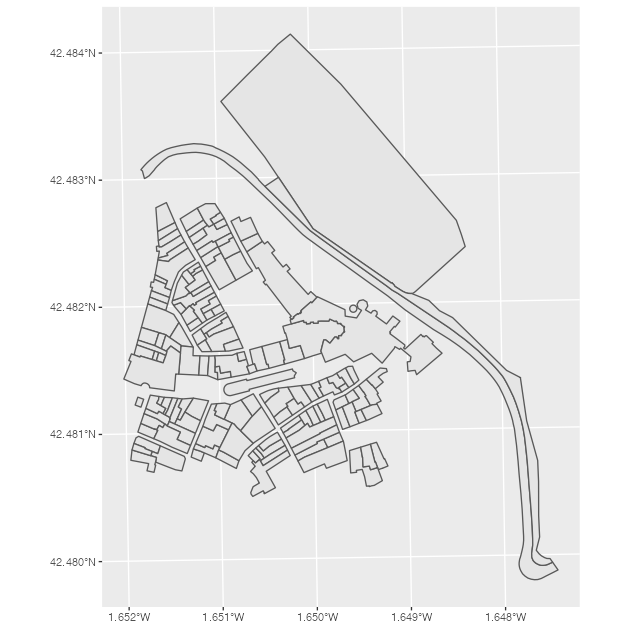
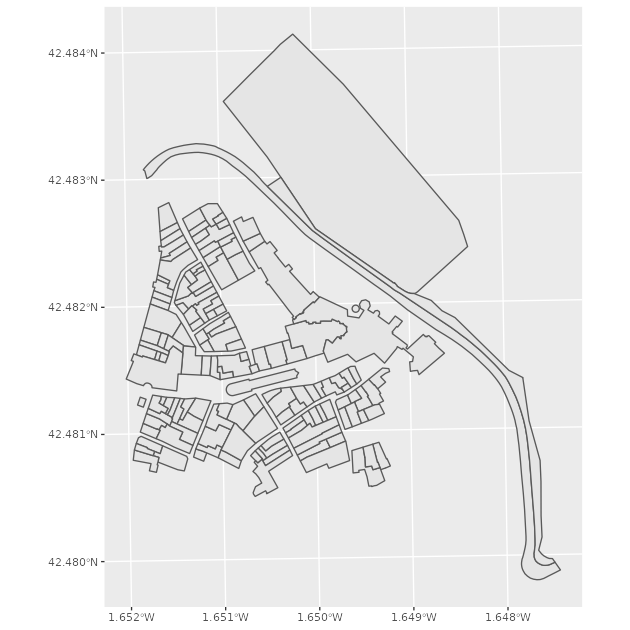
Built site for CatastRoNav: 0.0.1.9000@8615eb5

diff --git a/articles/CatastRoNav.html b/articles/CatastRoNav.html
@@ -42,7 +42,7 @@
     <div>
       <img src="../logo.png" alt="CatastRoNav-logo" id="ROS-navbar-logo"><a class="navbar-brand me-2" href="../index.html">CatastRoNav</a>
 
-      <small class="nav-text text-muted me-auto" data-bs-toggle="tooltip" data-bs-placement="bottom" title="">0.0.1</small>
+      <small class="nav-text text-muted me-auto" data-bs-toggle="tooltip" data-bs-placement="bottom" title="">0.0.1.9000</small>
     </div>
     
     <button class="navbar-toggler" type="button" data-bs-toggle="collapse" data-bs-target="#navbar" aria-controls="navbar" aria-expanded="false" aria-label="Toggle navigation">
@@ -143,11 +143,11 @@
 <span><span class="co"># Use mapSpain for getting the coords</span></span>
 <span><span class="va">pamp</span> <span class="op">&lt;-</span> <span class="fu"><a href="https://ropenspain.github.io/mapSpain/reference/esp_get_capimun.html" class="external-link">esp_get_capimun</a></span><span class="op">(</span>munic <span class="op">=</span> <span class="st">"^Pamplona"</span><span class="op">)</span></span>
 <span></span>
-<span><span class="co"># Transform to ETRS89 / UTM 30 N and add a buffer of 1000m</span></span>
+<span><span class="co"># Transform to ETRS89 / UTM 30 N and add a buffer of 750m</span></span>
 <span></span>
 <span><span class="va">pamp_buff</span> <span class="op">&lt;-</span> <span class="va">pamp</span> <span class="op"><a href="https://magrittr.tidyverse.org/reference/pipe.html" class="external-link">%&gt;%</a></span></span>
 <span>  <span class="fu"><a href="https://r-spatial.github.io/sf/reference/st_transform.html" class="external-link">st_transform</a></span><span class="op">(</span><span class="fl">25830</span><span class="op">)</span> <span class="op"><a href="https://magrittr.tidyverse.org/reference/pipe.html" class="external-link">%&gt;%</a></span></span>
-<span>  <span class="fu"><a href="https://r-spatial.github.io/sf/reference/geos_unary.html" class="external-link">st_buffer</a></span><span class="op">(</span><span class="fl">1000</span><span class="op">)</span></span></code></pre></div>
+<span>  <span class="fu"><a href="https://r-spatial.github.io/sf/reference/geos_unary.html" class="external-link">st_buffer</a></span><span class="op">(</span><span class="fl">750</span><span class="op">)</span></span></code></pre></div>
 <p>Next step consists on extracting the buildings using the WFS service:</p>
 <div class="sourceCode" id="cb3"><pre class="downlit sourceCode r">
 <code class="sourceCode R"><span></span>
@@ -158,30 +158,25 @@
 <span><span class="co"># Cut buildings</span></span>
 <span></span>
 <span><span class="va">dataviz</span> <span class="op">&lt;-</span> <span class="fu"><a href="https://r-spatial.github.io/sf/reference/geos_binary_ops.html" class="external-link">st_intersection</a></span><span class="op">(</span><span class="va">pamp_bu</span>, <span class="va">pamp_buff</span><span class="op">)</span></span>
-<span><span class="co">#&gt; Error in UseMethod("st_intersection"): no applicable method for 'st_intersection' applied to an object of class "NULL"</span></span>
 <span></span>
 <span><span class="fu"><a href="https://ggplot2.tidyverse.org/reference/ggplot.html" class="external-link">ggplot</a></span><span class="op">(</span><span class="va">dataviz</span><span class="op">)</span> <span class="op">+</span></span>
-<span>  <span class="fu"><a href="https://ggplot2.tidyverse.org/reference/ggsf.html" class="external-link">geom_sf</a></span><span class="op">(</span><span class="op">)</span></span>
-<span><span class="co">#&gt; Error in ggplot(dataviz): object 'dataviz' not found</span></span></code></pre></div>
+<span>  <span class="fu"><a href="https://ggplot2.tidyverse.org/reference/ggsf.html" class="external-link">geom_sf</a></span><span class="op">(</span><span class="op">)</span></span></code></pre></div>
+<p><img src="minimal-1.png" alt="plot of chunk minimal" width="100%"></p>
 <p>Let’s extract now the construction year, available in the column <code>beginning</code>:</p>
 <div class="sourceCode" id="cb5"><pre class="downlit sourceCode r">
 <code class="sourceCode R"><span></span>
 <span><span class="co"># Extract 4 initial positions</span></span>
 <span><span class="va">year</span> <span class="op">&lt;-</span> <span class="fu"><a href="https://rdrr.io/r/base/substr.html" class="external-link">substr</a></span><span class="op">(</span><span class="va">dataviz</span><span class="op">$</span><span class="va">beginning</span>, <span class="fl">1</span>, <span class="fl">4</span><span class="op">)</span></span>
-<span><span class="co">#&gt; Error in substr(dataviz$beginning, 1, 4): object 'dataviz' not found</span></span>
 <span></span>
 <span><span class="co"># Replace all that doesn't look as a number with 0000</span></span>
 <span><span class="va">year</span><span class="op">[</span><span class="op">!</span><span class="op">(</span><span class="va">year</span> <span class="op"><a href="https://rdrr.io/r/base/match.html" class="external-link">%in%</a></span> <span class="fl">0</span><span class="op">:</span><span class="fl">2500</span><span class="op">)</span><span class="op">]</span> <span class="op">&lt;-</span> <span class="st">"0000"</span></span>
-<span><span class="co">#&gt; Error in year[!(year %in% 0:2500)] &lt;- "0000": object 'year' not found</span></span>
 <span></span>
 <span><span class="co"># To numeric</span></span>
 <span><span class="va">year</span> <span class="op">&lt;-</span> <span class="fu"><a href="https://rdrr.io/r/base/integer.html" class="external-link">as.integer</a></span><span class="op">(</span><span class="va">year</span><span class="op">)</span></span>
-<span><span class="co">#&gt; Error in eval(expr, envir, enclos): object 'year' not found</span></span>
 <span></span>
 <span><span class="co"># New column</span></span>
 <span><span class="va">dataviz</span> <span class="op">&lt;-</span> <span class="va">dataviz</span> <span class="op"><a href="https://magrittr.tidyverse.org/reference/pipe.html" class="external-link">%&gt;%</a></span></span>
-<span>  <span class="fu"><a href="https://dplyr.tidyverse.org/reference/mutate.html" class="external-link">mutate</a></span><span class="op">(</span>year <span class="op">=</span> <span class="va">year</span><span class="op">)</span></span>
-<span><span class="co">#&gt; Error in mutate(., year = year): object 'dataviz' not found</span></span></code></pre></div>
+<span>  <span class="fu"><a href="https://dplyr.tidyverse.org/reference/mutate.html" class="external-link">mutate</a></span><span class="op">(</span>year <span class="op">=</span> <span class="va">year</span><span class="op">)</span></span></code></pre></div>
 <p>Last step is to create groups based on the year and create the data visualization. We use here the function <code><a href="https://ggplot2.tidyverse.org/reference/cut_interval.html" class="external-link">ggplot2::cut_width()</a></code> to create different classes:</p>
 <div class="sourceCode" id="cb6"><pre class="downlit sourceCode r">
 <code class="sourceCode R"><span></span>
@@ -189,7 +184,6 @@
 <span>  <span class="fu"><a href="https://dplyr.tidyverse.org/reference/mutate.html" class="external-link">mutate</a></span><span class="op">(</span>year_cat <span class="op">=</span> <span class="fu">ggplot2</span><span class="fu">::</span><span class="fu"><a href="https://ggplot2.tidyverse.org/reference/cut_interval.html" class="external-link">cut_width</a></span><span class="op">(</span><span class="va">year</span>,</span>
 <span>    width <span class="op">=</span> <span class="fl">10</span></span>
 <span>  <span class="op">)</span><span class="op">)</span></span>
-<span><span class="co">#&gt; Error in mutate(., year_cat = ggplot2::cut_width(year, width = 10)): object 'dataviz' not found</span></span>
 <span></span>
 <span></span>
 <span><span class="co"># Adjust the color palette</span></span>
@@ -198,7 +192,6 @@
 <span>  <span class="fu"><a href="https://rdrr.io/r/base/length.html" class="external-link">length</a></span><span class="op">(</span><span class="fu"><a href="https://rdrr.io/r/base/levels.html" class="external-link">levels</a></span><span class="op">(</span><span class="va">dataviz</span><span class="op">$</span><span class="va">year_cat</span><span class="op">)</span><span class="op">)</span>,</span>
 <span>  <span class="st">"Spectral"</span></span>
 <span><span class="op">)</span></span>
-<span><span class="co">#&gt; Error in levels(dataviz$year_cat): object 'dataviz' not found</span></span>
 <span></span>
 <span><span class="fu"><a href="https://ggplot2.tidyverse.org/reference/ggplot.html" class="external-link">ggplot</a></span><span class="op">(</span><span class="va">dataviz</span><span class="op">)</span> <span class="op">+</span></span>
 <span>  <span class="fu"><a href="https://ggplot2.tidyverse.org/reference/ggsf.html" class="external-link">geom_sf</a></span><span class="op">(</span><span class="fu"><a href="https://ggplot2.tidyverse.org/reference/aes.html" class="external-link">aes</a></span><span class="op">(</span>fill <span class="op">=</span> <span class="va">year_cat</span><span class="op">)</span>, color <span class="op">=</span> <span class="cn">NA</span><span class="op">)</span> <span class="op">+</span></span>
@@ -223,8 +216,8 @@
 <span>      margin <span class="op">=</span> <span class="fu"><a href="https://ggplot2.tidyverse.org/reference/element.html" class="external-link">margin</a></span><span class="op">(</span>b <span class="op">=</span> <span class="fl">20</span><span class="op">)</span>, hjust <span class="op">=</span> <span class="fl">.5</span></span>
 <span>    <span class="op">)</span>,</span>
 <span>    plot.margin <span class="op">=</span> <span class="fu"><a href="https://ggplot2.tidyverse.org/reference/element.html" class="external-link">margin</a></span><span class="op">(</span>r <span class="op">=</span> <span class="fl">40</span>, l <span class="op">=</span> <span class="fl">40</span><span class="op">)</span></span>
-<span>  <span class="op">)</span></span>
-<span><span class="co">#&gt; Error in ggplot(dataviz): object 'dataviz' not found</span></span></code></pre></div>
+<span>  <span class="op">)</span></span></code></pre></div>
+<p><img src="dataviz-1.png" alt="plot of chunk dataviz" width="100%"></p>
 </div>
 </div>
 <div class="section level2 unnumbered">

diff --git a/index.html b/index.html
@@ -46,7 +46,7 @@
     <div>
       <img src="logo.png" alt="CatastRoNav-logo" id="ROS-navbar-logo"><a class="navbar-brand me-2" href="index.html">CatastRoNav</a>
 
-      <small class="nav-text text-muted me-auto" data-bs-toggle="tooltip" data-bs-placement="bottom" title="">0.0.1</small>
+      <small class="nav-text text-muted me-auto" data-bs-toggle="tooltip" data-bs-placement="bottom" title="">0.0.1.9000</small>
     </div>
     
     <button class="navbar-toggler" type="button" data-bs-toggle="collapse" data-bs-target="#navbar" aria-controls="navbar" aria-expanded="false" aria-label="Toggle navigation">
@@ -104,14 +104,15 @@
 <p>Alternatively, you can install the developing version of <strong>CatastRoNav</strong> with:</p>
 <div class="sourceCode" id="cb2"><pre class="downlit sourceCode r">
 <code class="sourceCode R"><span><span class="kw"><a href="https://rdrr.io/r/base/library.html" class="external-link">library</a></span><span class="op">(</span><span class="va"><a href="https://remotes.r-lib.org" class="external-link">remotes</a></span><span class="op">)</span></span>
-<span><span class="fu">install_github</span><span class="op">(</span><span class="st">"rOpenSpain/CatastRoNav"</span>, dependencies <span class="op">=</span> <span class="cn">TRUE</span><span class="op">)</span></span></code></pre></div>
+<span><span class="fu"><a href="https://remotes.r-lib.org/reference/install_github.html" class="external-link">install_github</a></span><span class="op">(</span><span class="st">"rOpenSpain/CatastRoNav"</span>, dependencies <span class="op">=</span> <span class="cn">TRUE</span><span class="op">)</span></span></code></pre></div>
 </div>
 <div class="section level2">
 <h2 id="usage">Usage<a class="anchor" aria-label="anchor" href="#usage"></a>
 </h2>
 <p>The WFS service allows to download vector objects of specific cadastral elements. The result is provided as <code>sf</code> objects (See <strong>sf</strong> package).</p>
 <div class="sourceCode" id="cb3"><pre class="downlit sourceCode r">
-<code class="sourceCode R"><span><span class="kw"><a href="https://rdrr.io/r/base/library.html" class="external-link">library</a></span><span class="op">(</span><span class="va"><a href="https://ropenspain.github.io/CatastRoNav/">CatastRoNav</a></span><span class="op">)</span></span>
+<code class="sourceCode R"><span></span>
+<span><span class="kw"><a href="https://rdrr.io/r/base/library.html" class="external-link">library</a></span><span class="op">(</span><span class="va"><a href="https://ropenspain.github.io/CatastRoNav/">CatastRoNav</a></span><span class="op">)</span></span>
 <span><span class="kw"><a href="https://rdrr.io/r/base/library.html" class="external-link">library</a></span><span class="op">(</span><span class="va"><a href="https://ggplot2.tidyverse.org" class="external-link">ggplot2</a></span><span class="op">)</span></span>
 <span></span>
 <span><span class="va">wfs_get_buildings</span> <span class="op">&lt;-</span> <span class="fu"><a href="reference/catrnav_wfs_get_buildings_bbox.html">catrnav_wfs_get_buildings_bbox</a></span><span class="op">(</span></span>
@@ -128,16 +129,16 @@
 <h2 id="citation">Citation<a class="anchor" aria-label="anchor" href="#citation"></a>
 </h2>
 <p>To cite ‘CatastRoNav’ in publications use:</p>
-<p>Hernangómez D (2022). <em>CatastRoNav: Interface to the API Catastro de Navarra</em>. <a href="doi:10.5281/zenodo.6366407" class="uri">doi:10.5281/zenodo.6366407</a> <a href="https://doi.org/10.5281/zenodo.6366407" class="external-link uri">https://doi.org/10.5281/zenodo.6366407</a>, <a href="https://ropenspain.github.io/CatastRoNav/" class="uri">https://ropenspain.github.io/CatastRoNav/</a>.</p>
+<p>Hernangomez D (2022). CatastRoNav: Interface to the INSPIRE services of Catastro de Navarra. <a href="https://doi.org/10.5281/zenodo.6366407" class="external-link uri">https://doi.org/10.5281/zenodo.6366407</a>, <a href="https://ropenspain.github.io/CatastRoNav/" class="uri">https://ropenspain.github.io/CatastRoNav/</a></p>
 <p>A BibTeX entry for LaTeX users is:</p>
 <div class="sourceCode" id="cb4"><pre class="sourceCode R"><code class="sourceCode r"><span id="cb4-1"><a href="#cb4-1" aria-hidden="true" tabindex="-1"></a><span class="sc">@</span>Manual{R<span class="sc">-</span>catastronav,</span>
 <span id="cb4-2"><a href="#cb4-2" aria-hidden="true" tabindex="-1"></a>  title <span class="ot">=</span> {{CatastRoNav}<span class="sc">:</span> Interface to the {API} Catastro de Navarra},</span>
 <span id="cb4-3"><a href="#cb4-3" aria-hidden="true" tabindex="-1"></a>  author <span class="ot">=</span> {Diego Hernangómez},</span>
 <span id="cb4-4"><a href="#cb4-4" aria-hidden="true" tabindex="-1"></a>  year <span class="ot">=</span> {<span class="dv">2022</span>},</span>
-<span id="cb4-5"><a href="#cb4-5" aria-hidden="true" tabindex="-1"></a>  version <span class="ot">=</span> {<span class="dv">0</span>.<span class="fl">0.1</span>},</span>
-<span id="cb4-6"><a href="#cb4-6" aria-hidden="true" tabindex="-1"></a>  url <span class="ot">=</span> {https<span class="sc">:</span><span class="er">//</span>ropenspain.github.io<span class="sc">/</span>CatastRoNav<span class="sc">/</span>},</span>
-<span id="cb4-7"><a href="#cb4-7" aria-hidden="true" tabindex="-1"></a>  doi <span class="ot">=</span> {<span class="fl">10.5281</span><span class="sc">/</span>zenodo<span class="fl">.6366407</span>},</span>
-<span id="cb4-8"><a href="#cb4-8" aria-hidden="true" tabindex="-1"></a>  abstract <span class="ot">=</span> {Access public spatial data available under the <span class="st">'INSPIRE'</span> directive. Tools <span class="cf">for</span> downloading references, buildings and addresses of properties on <span class="fu">Navarre</span> (Spain).},</span>
+<span id="cb4-5"><a href="#cb4-5" aria-hidden="true" tabindex="-1"></a>  version <span class="ot">=</span> {<span class="dv">0</span>.<span class="dv">0</span>.<span class="fl">1.9000</span>},</span>
+<span id="cb4-6"><a href="#cb4-6" aria-hidden="true" tabindex="-1"></a>  doi <span class="ot">=</span> {<span class="fl">10.5281</span><span class="sc">/</span>zenodo<span class="fl">.6366407</span>},</span>
+<span id="cb4-7"><a href="#cb4-7" aria-hidden="true" tabindex="-1"></a>  url <span class="ot">=</span> {https<span class="sc">:</span><span class="er">//</span>ropenspain.github.io<span class="sc">/</span>CatastRoNav<span class="sc">/</span>},</span>
+<span id="cb4-8"><a href="#cb4-8" aria-hidden="true" tabindex="-1"></a>  abstract <span class="ot">=</span> {Access public spatial data available under the INSPIRE directive. Tools <span class="cf">for</span> downloading references, buildings and addresses of properties on <span class="fu">Navarre</span> (Spain).},</span>
 <span id="cb4-9"><a href="#cb4-9" aria-hidden="true" tabindex="-1"></a>}</span></code></pre></div>
 </div>
 <div class="section level2">

diff --git a/authors.html b/authors.html
@@ -11,7 +11,7 @@
     <div>
       <img src="logo.png" alt="CatastRoNav-logo" id="ROS-navbar-logo"><a class="navbar-brand me-2" href="index.html">CatastRoNav</a>
 
-      <small class="nav-text text-muted me-auto" data-bs-toggle="tooltip" data-bs-placement="bottom" title="">0.0.1</small>
+      <small class="nav-text text-muted me-auto" data-bs-toggle="tooltip" data-bs-placement="bottom" title="">0.0.1.9000</small>
     </div>
     
     <button class="navbar-toggler" type="button" data-bs-toggle="collapse" data-bs-target="#navbar" aria-controls="navbar" aria-expanded="false" aria-label="Toggle navigation">
@@ -60,18 +60,15 @@
       <h2 id="citation">Citation</h2>
       <p><small class="dont-index">Source: <a href="https://github.com/rOpenSpain/CatastRoNav/blob/HEAD/inst/CITATION" class="external-link"><code>inst/CITATION</code></a></small></p>
 
-      <p>Hernangómez D (2022).
-<em>CatastRoNav: Interface to the API Catastro de Navarra</em>.
-<a href="https://doi.org/10.5281/zenodo.6366407" class="external-link">doi:10.5281/zenodo.6366407</a>, <a href="https://ropenspain.github.io/CatastRoNav/">https://ropenspain.github.io/CatastRoNav/</a>. 
-</p>
+      <p>Hernangomez D (2022). CatastRoNav: Interface to the INSPIRE services of Catastro de Navarra. &lt;https://doi.org/10.5281/zenodo.6366407&gt;, &lt;https://ropenspain.github.io/CatastRoNav/&gt;</p>
       <pre>@Manual{R-catastronav,
   title = {{CatastRoNav}: Interface to the {API} Catastro de Navarra},
   author = {Diego Hernangómez},
   year = {2022},
-  version = {0.0.1},
-  url = {https://ropenspain.github.io/CatastRoNav/},
+  version = {0.0.1.9000},
   doi = {10.5281/zenodo.6366407},
-  abstract = {Access public spatial data available under the 'INSPIRE' directive. Tools for downloading references, buildings and addresses of properties on Navarre (Spain).},
+  url = {https://ropenspain.github.io/CatastRoNav/},
+  abstract = {Access public spatial data available under the INSPIRE directive. Tools for downloading references, buildings and addresses of properties on Navarre (Spain).},
 }</pre>
     </div>
   </main><aside class="col-md-3"><nav id="toc"><h2>On this page</h2>

diff --git a/news/index.html b/news/index.html
@@ -11,7 +11,7 @@
     <div>
       <img src="../logo.png" alt="CatastRoNav-logo" id="ROS-navbar-logo"><a class="navbar-brand me-2" href="../index.html">CatastRoNav</a>
 
-      <small class="nav-text text-muted me-auto" data-bs-toggle="tooltip" data-bs-placement="bottom" title="">0.0.1</small>
+      <small class="nav-text text-muted me-auto" data-bs-toggle="tooltip" data-bs-placement="bottom" title="">0.0.1.9000</small>
     </div>
     
     <button class="navbar-toggler" type="button" data-bs-toggle="collapse" data-bs-target="#navbar" aria-controls="navbar" aria-expanded="false" aria-label="Toggle navigation">
@@ -48,6 +48,9 @@
       <small>Source: <a href="https://github.com/rOpenSpain/CatastRoNav/blob/HEAD/NEWS.md" class="external-link"><code>NEWS.md</code></a></small>
     </div>
 
+    <div class="section level2">
+<h2 class="pkg-version" data-toc-text="development version" id="catastronav-development-version">CatastRoNav (development version)<a class="anchor" aria-label="anchor" href="#catastronav-development-version"></a></h2>
+<ul><li>Make <code>sf</code> objects valid with <code><a href="https://r-spatial.github.io/sf/reference/valid.html" class="external-link">sf::st_make_valid()</a></code>.</li></ul></div>
     <div class="section level2">
 <h2 class="pkg-version" data-toc-text="0.0.1" id="catastronav-001">CatastRoNav 0.0.1<a class="anchor" aria-label="anchor" href="#catastronav-001"></a></h2>
 <ul><li>Initial release.</li></ul></div>

diff --git a/reference/CatastRoNav-package.html b/reference/CatastRoNav-package.html
@@ -13,7 +13,7 @@ Access public spatial data available under the 'INSPIRE' directive. Tools for do
     <div>
       <img src="../logo.png" alt="CatastRoNav-logo" id="ROS-navbar-logo"><a class="navbar-brand me-2" href="../index.html">CatastRoNav</a>
 
-      <small class="nav-text text-muted me-auto" data-bs-toggle="tooltip" data-bs-placement="bottom" title="">0.0.1</small>
+      <small class="nav-text text-muted me-auto" data-bs-toggle="tooltip" data-bs-placement="bottom" title="">0.0.1.9000</small>
     </div>
     
     <button class="navbar-toggler" type="button" data-bs-toggle="collapse" data-bs-target="#navbar" aria-controls="navbar" aria-expanded="false" aria-label="Toggle navigation">

diff --git a/404.html b/404.html
@@ -40,7 +40,7 @@
     <div>
       <img src="https://ropenspain.github.io/CatastRoNav/logo.png" alt="CatastRoNav-logo" id="ROS-navbar-logo"><a class="navbar-brand me-2" href="https://ropenspain.github.io/CatastRoNav/index.html">CatastRoNav</a>
 
-      <small class="nav-text text-muted me-auto" data-bs-toggle="tooltip" data-bs-placement="bottom" title="">0.0.1</small>
+      <small class="nav-text text-muted me-auto" data-bs-toggle="tooltip" data-bs-placement="bottom" title="">0.0.1.9000</small>
     </div>
     
     <button class="navbar-toggler" type="button" data-bs-toggle="collapse" data-bs-target="#navbar" aria-controls="navbar" aria-expanded="false" aria-label="Toggle navigation">

diff --git a/articles/index.html b/articles/index.html
@@ -11,7 +11,7 @@
     <div>
       <img src="../logo.png" alt="CatastRoNav-logo" id="ROS-navbar-logo"><a class="navbar-brand me-2" href="../index.html">CatastRoNav</a>
 
-      <small class="nav-text text-muted me-auto" data-bs-toggle="tooltip" data-bs-placement="bottom" title="">0.0.1</small>
+      <small class="nav-text text-muted me-auto" data-bs-toggle="tooltip" data-bs-placement="bottom" title="">0.0.1.9000</small>
     </div>
     
     <button class="navbar-toggler" type="button" data-bs-toggle="collapse" data-bs-target="#navbar" aria-controls="navbar" aria-expanded="false" aria-label="Toggle navigation">

diff --git a/reference/catrnav_wfs_get_address_bbox.html b/reference/catrnav_wfs_get_address_bbox.html
@@ -11,7 +11,7 @@
     <div>
       <img src="../logo.png" alt="CatastRoNav-logo" id="ROS-navbar-logo"><a class="navbar-brand me-2" href="../index.html">CatastRoNav</a>
 
-      <small class="nav-text text-muted me-auto" data-bs-toggle="tooltip" data-bs-placement="bottom" title="">0.0.1</small>
+      <small class="nav-text text-muted me-auto" data-bs-toggle="tooltip" data-bs-placement="bottom" title="">0.0.1.9000</small>
     </div>
     
     <button class="navbar-toggler" type="button" data-bs-toggle="collapse" data-bs-target="#navbar" aria-controls="navbar" aria-expanded="false" aria-label="Toggle navigation">

diff --git a/reference/catrnav_wfs_get_buildings_bbox.html b/reference/catrnav_wfs_get_buildings_bbox.html
@@ -11,7 +11,7 @@
     <div>
       <img src="../logo.png" alt="CatastRoNav-logo" id="ROS-navbar-logo"><a class="navbar-brand me-2" href="../index.html">CatastRoNav</a>
 
-      <small class="nav-text text-muted me-auto" data-bs-toggle="tooltip" data-bs-placement="bottom" title="">0.0.1</small>
+      <small class="nav-text text-muted me-auto" data-bs-toggle="tooltip" data-bs-placement="bottom" title="">0.0.1.9000</small>
     </div>
     
     <button class="navbar-toggler" type="button" data-bs-toggle="collapse" data-bs-target="#navbar" aria-controls="navbar" aria-expanded="false" aria-label="Toggle navigation">

diff --git a/reference/catrnav_wfs_get_parcels_bbox.html b/reference/catrnav_wfs_get_parcels_bbox.html
@@ -11,7 +11,7 @@
     <div>
       <img src="../logo.png" alt="CatastRoNav-logo" id="ROS-navbar-logo"><a class="navbar-brand me-2" href="../index.html">CatastRoNav</a>
 
-      <small class="nav-text text-muted me-auto" data-bs-toggle="tooltip" data-bs-placement="bottom" title="">0.0.1</small>
+      <small class="nav-text text-muted me-auto" data-bs-toggle="tooltip" data-bs-placement="bottom" title="">0.0.1.9000</small>
     </div>
     
     <button class="navbar-toggler" type="button" data-bs-toggle="collapse" data-bs-target="#navbar" aria-controls="navbar" aria-expanded="false" aria-label="Toggle navigation">

diff --git a/reference/index.html b/reference/index.html
@@ -11,7 +11,7 @@
     <div>
       <img src="../logo.png" alt="CatastRoNav-logo" id="ROS-navbar-logo"><a class="navbar-brand me-2" href="../index.html">CatastRoNav</a>
 
-      <small class="nav-text text-muted me-auto" data-bs-toggle="tooltip" data-bs-placement="bottom" title="">0.0.1</small>
+      <small class="nav-text text-muted me-auto" data-bs-toggle="tooltip" data-bs-placement="bottom" title="">0.0.1.9000</small>
     </div>
     
     <button class="navbar-toggler" type="button" data-bs-toggle="collapse" data-bs-target="#navbar" aria-controls="navbar" aria-expanded="false" aria-label="Toggle navigation">

diff --git a/LICENSE.html b/LICENSE.html
@@ -11,7 +11,7 @@
     <div>
       <img src="logo.png" alt="CatastRoNav-logo" id="ROS-navbar-logo"><a class="navbar-brand me-2" href="index.html">CatastRoNav</a>
 
-      <small class="nav-text text-muted me-auto" data-bs-toggle="tooltip" data-bs-placement="bottom" title="">0.0.1</small>
+      <small class="nav-text text-muted me-auto" data-bs-toggle="tooltip" data-bs-placement="bottom" title="">0.0.1.9000</small>
     </div>
     
     <button class="navbar-toggler" type="button" data-bs-toggle="collapse" data-bs-target="#navbar" aria-controls="navbar" aria-expanded="false" aria-label="Toggle navigation">
